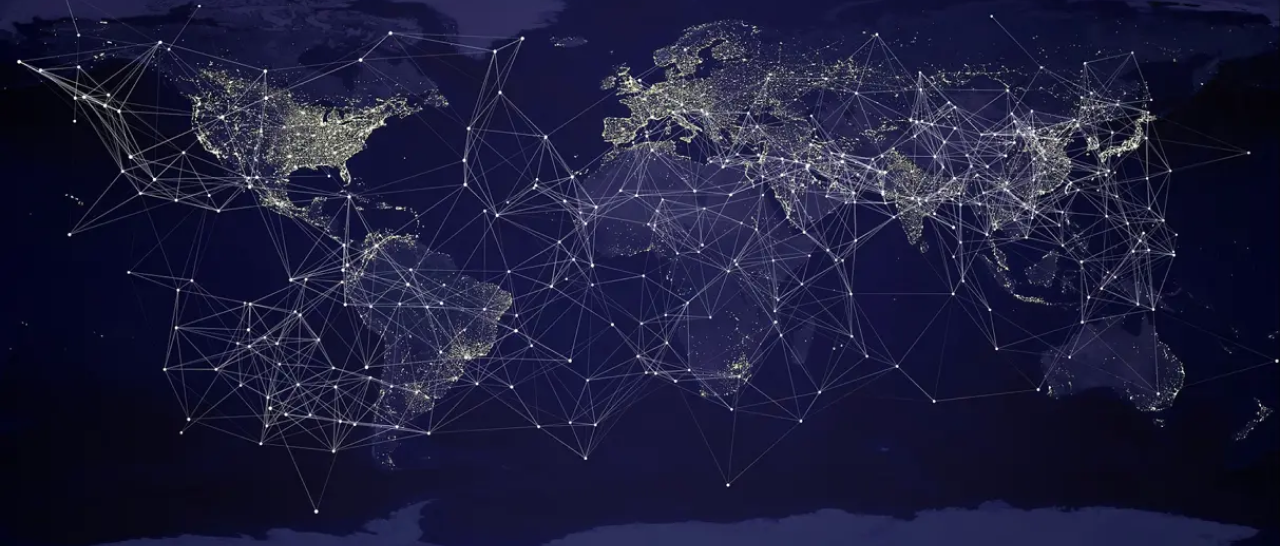
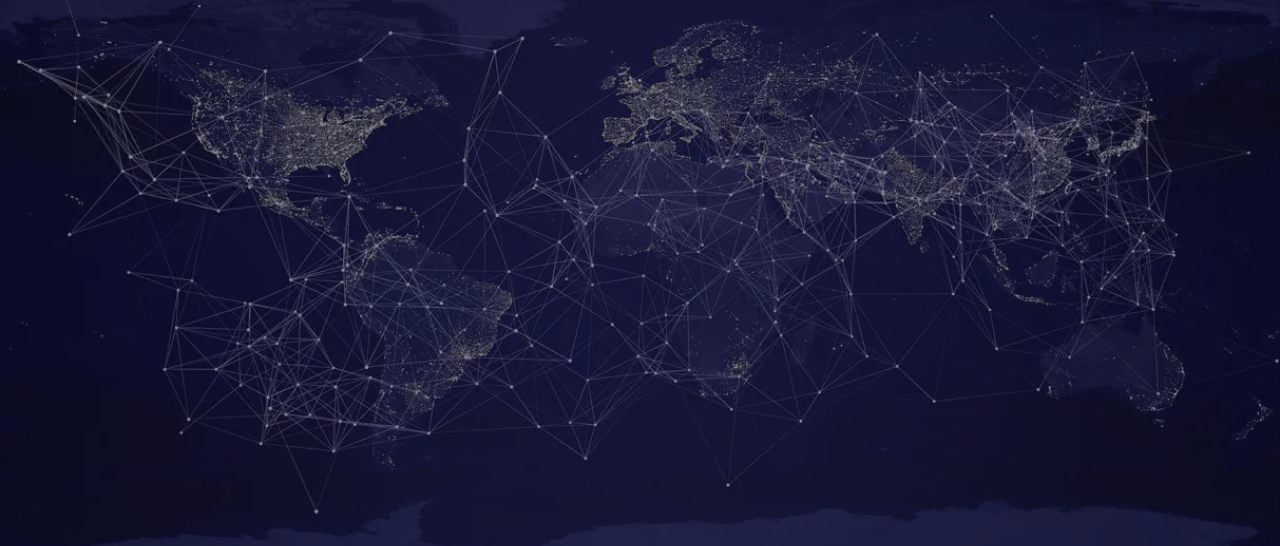
pres

diff --git a/page_presentation.css b/page_presentation.css
@@ -20,7 +20,8 @@ header{
 
 .navbar{
     position: relative;
-    padding-top: 25px;
+    padding-top: 10px;
+    padding-bottom: 10px;
     padding-left: 50px;
     padding-right: 50px;
     display: flex;
@@ -36,6 +37,7 @@ header{
 .navbar .logo{
     font-size: 2em;
     font-weight: lighter;
+    align-items:center;
 }
 
 .navbar .nav-links {
@@ -58,3 +60,36 @@ header{
 
 /* Fin Navbar*/
 
+.container{
+    width: 100%;
+    height: 350;
+    display:inline-block;
+    position: relative;
+}
+
+img{
+    width: 100%;
+    height: 350px;
+    object-fit: cover;
+}
+
+.container .text{
+    /* background: #2A2E5A; */
+    z-index: 1;
+    position: absolute;
+    text-align: center;
+    margin: 0 auto;
+    left: 0;
+    right: 0;
+    top: 10%;
+    color: white;
+    width: 70%;
+}
+
+.container .text h1{
+    font-weight: lighter;
+}
+
+.container .text h4{
+    font-weight: lighter;
+}

diff --git a/page_presentation.html b/page_presentation.html
@@ -19,11 +19,14 @@
         </div>
     </nav>
 
-    <div class="container-fluid">
-        <!-- <img src="https://img.freepik.com/vecteurs-libre/globe-banniere-communication-reseau_1048-12357.jpg?w=1060&t=st=1680698222~exp=1680698822~hmac=adc83d7ff37db11cedcc8f2cb5d4df3b0b5e22f189375634cf068fe5ff071ee9" 
-        alt="landscape"> -->
+    <div class="container">
+      <img src="image/landscape_v2.png"
+       alt="landscape">
+        <div class="text">
+       <h1>Notre Projet</h1>
+       <h4>Faire un resumer du projet, et expliquer le pourquoi du coment le projet</h4>
+      </div>
     </div>
 
-    </div>
   </body>
 </html>
